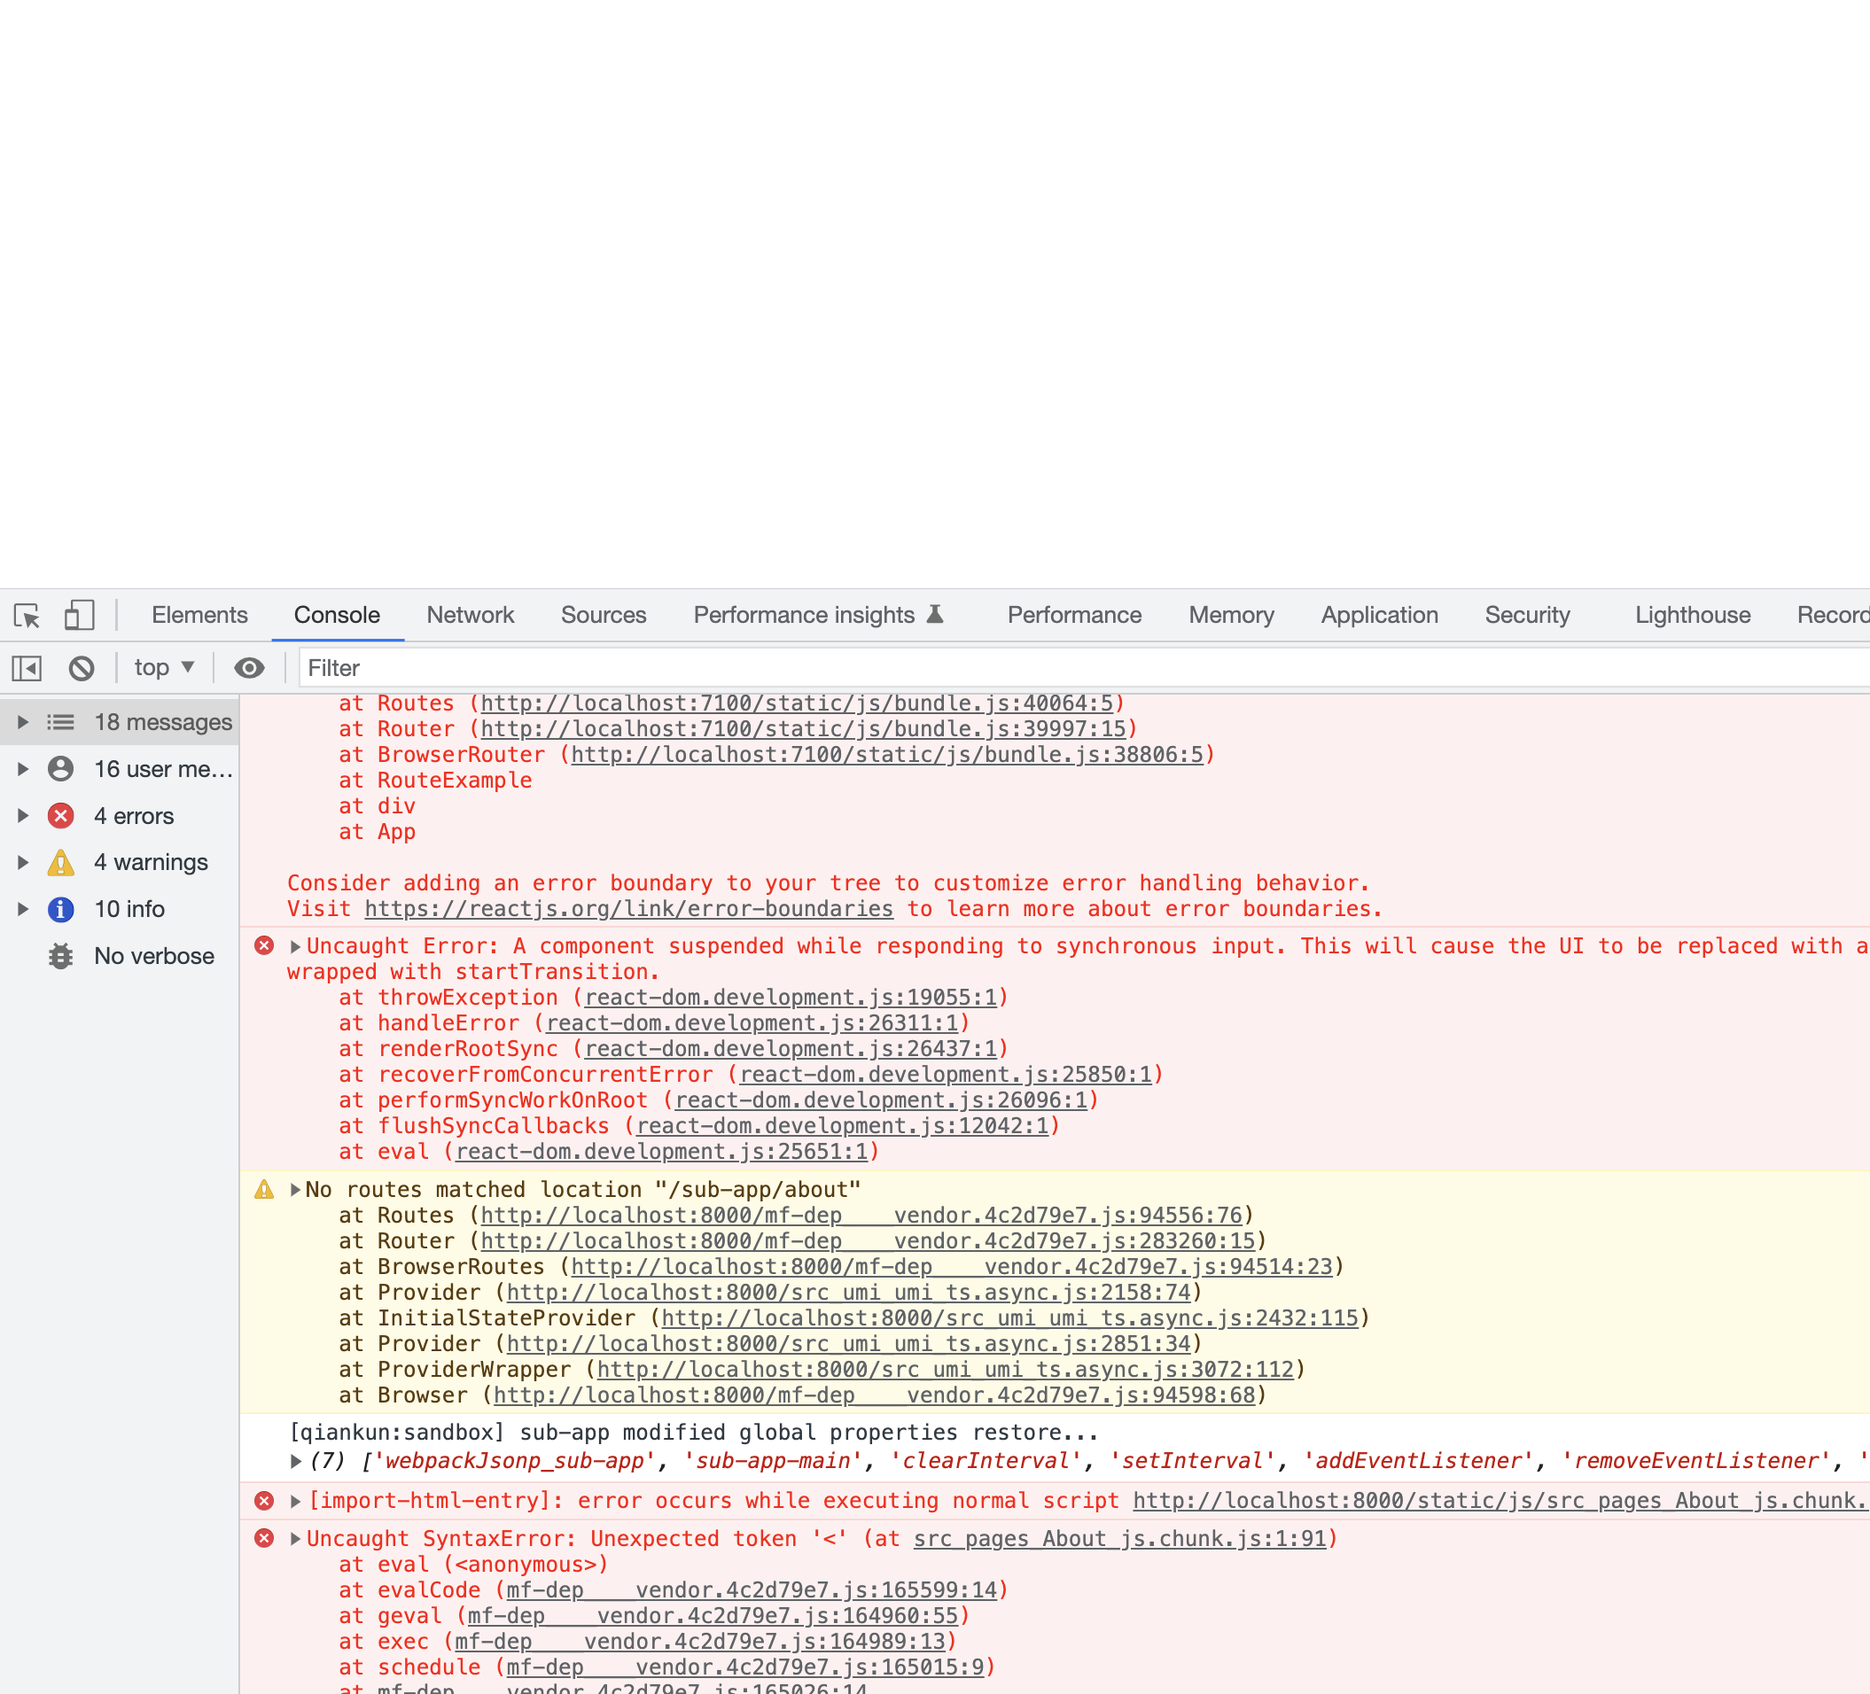
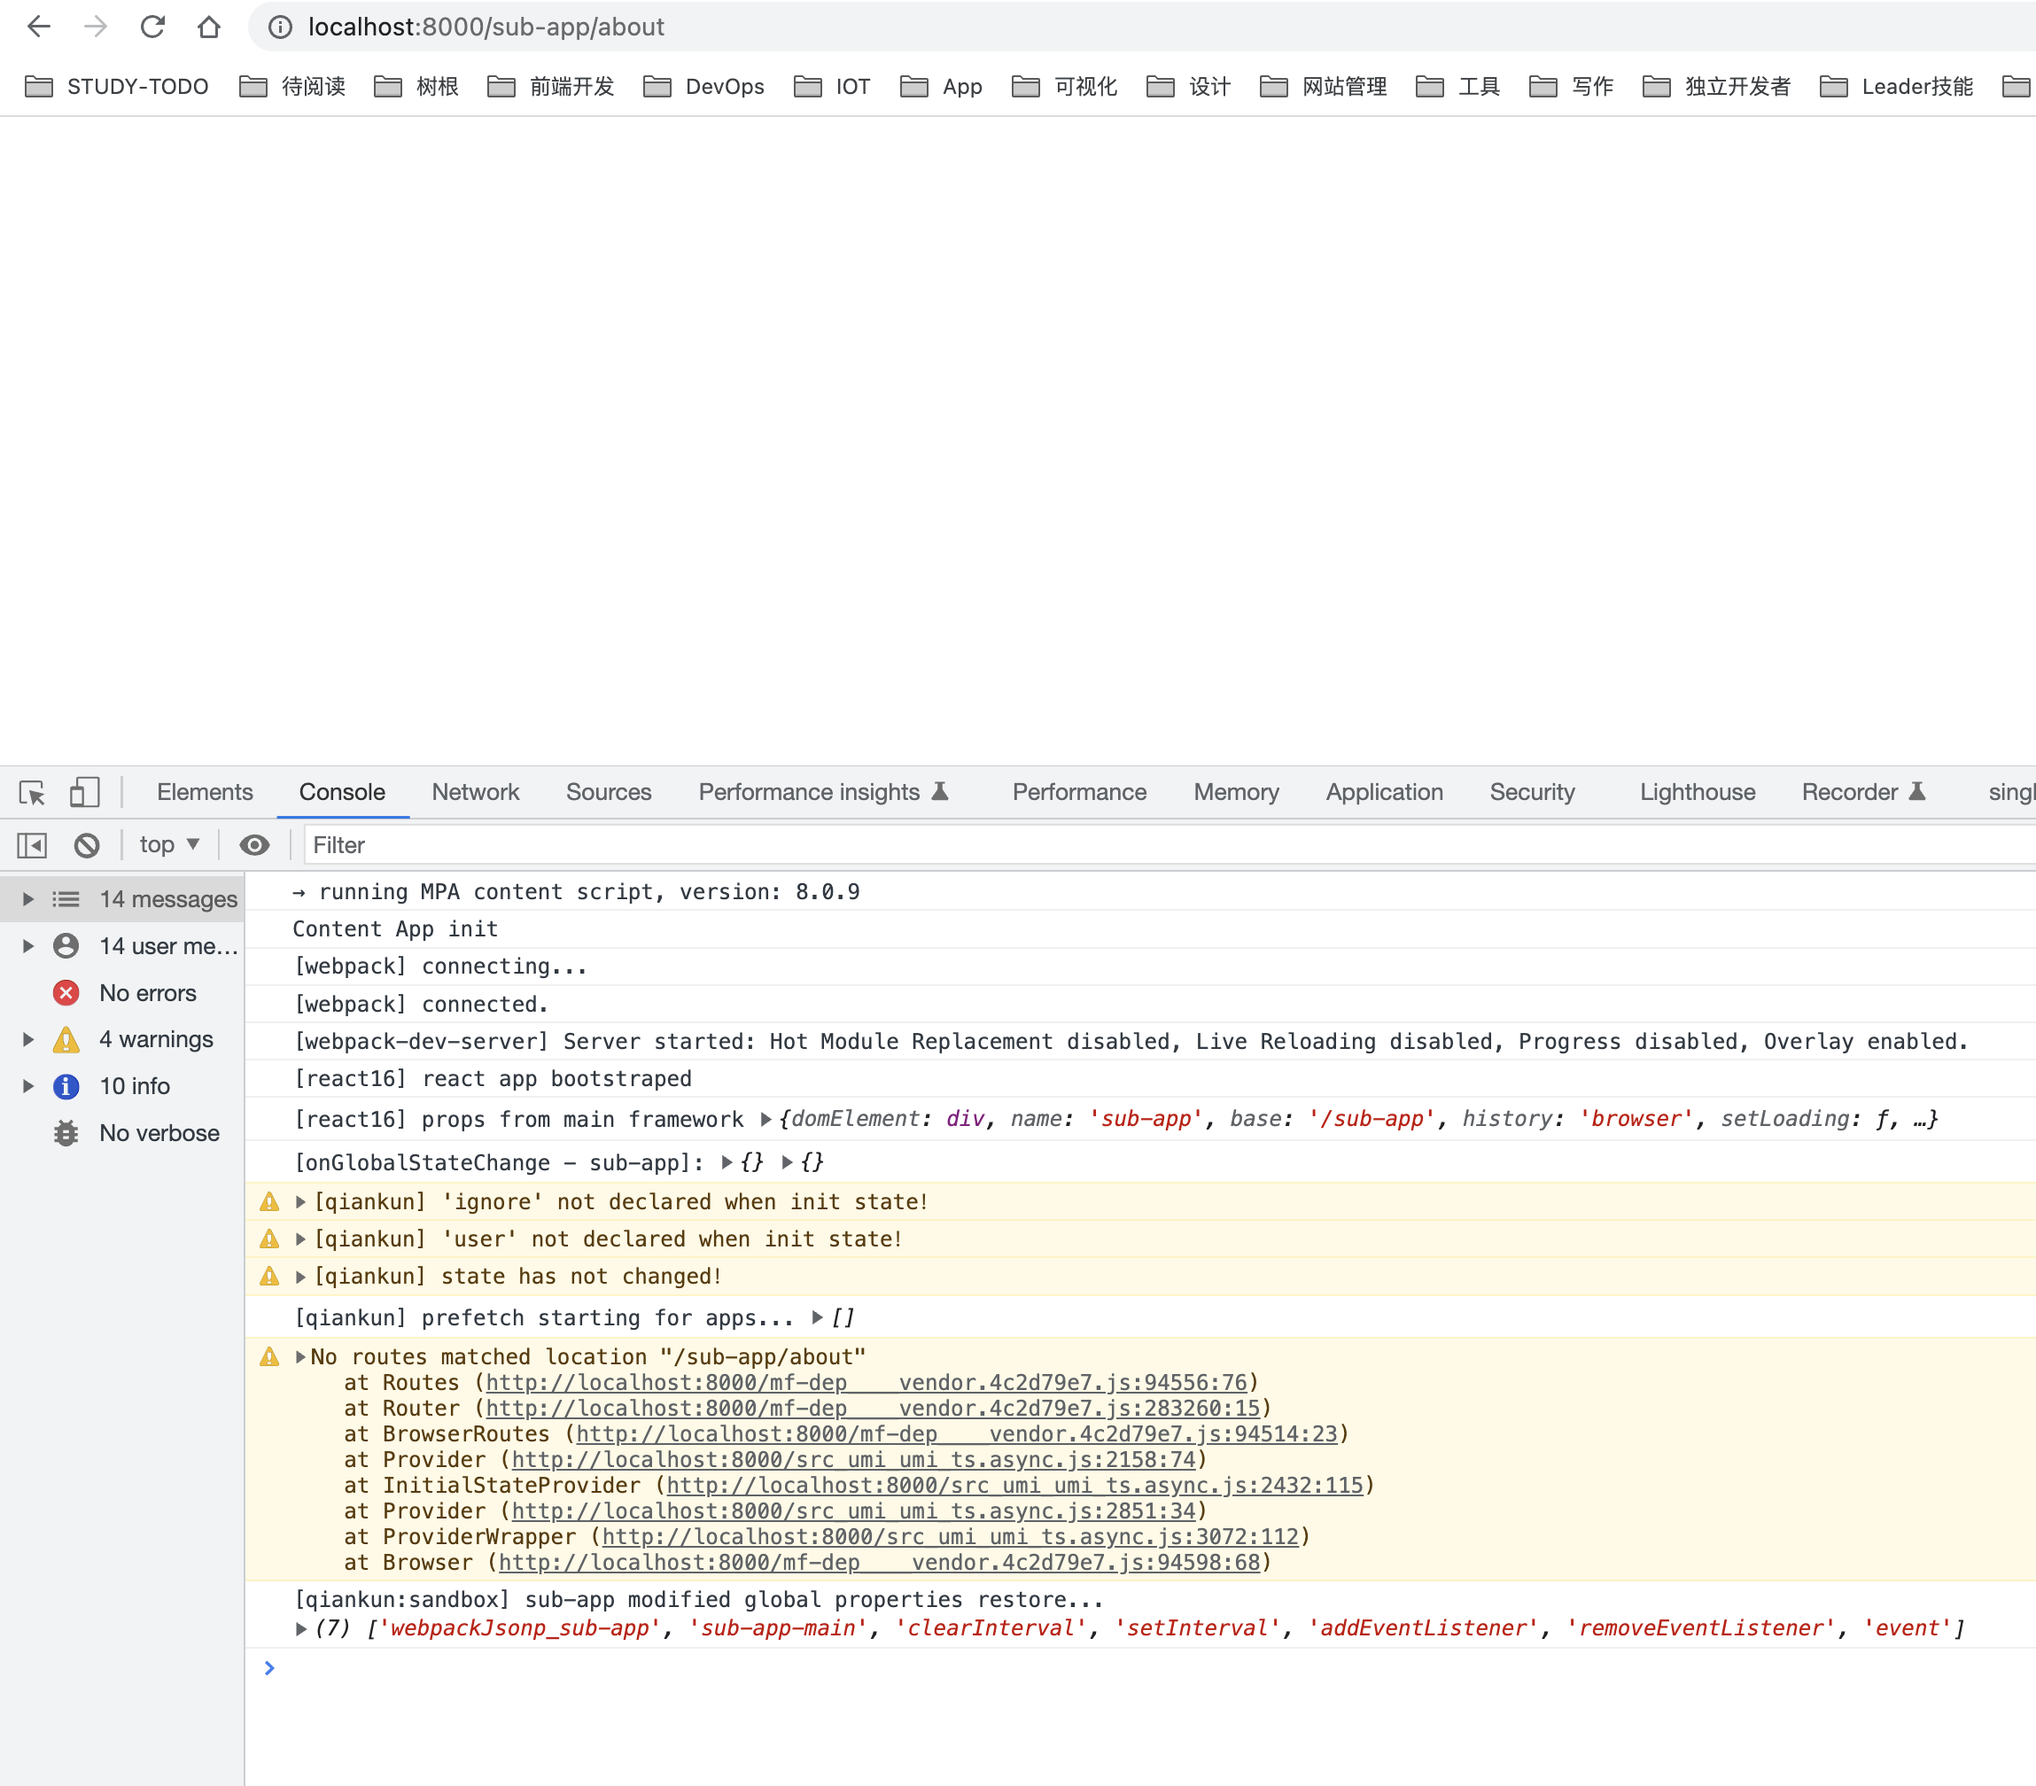
fix: suspense error

diff --git a/sub-app/src/App.js b/sub-app/src/App.js
@@ -1,4 +1,3 @@
-import { lazy } from 'react';
 import {
   BrowserRouter as Router,
   Link,
@@ -10,8 +9,9 @@ import {
 import 'antd/dist/antd.min.css';
 import './App.css';
 
+import About from './pages/About';
 import Home from './pages/Home';
-const About = lazy(() => import('./pages/About'));
+// const About = lazy(() => import('./pages/About'));
 
 const RouteExample = () => {
   return (

diff --git a/README.md b/README.md
@@ -46,7 +46,7 @@ export default defineConfig({
       apps: [
         {
           name: 'sub-app',
-          entry: '//localhost:7100',
+          entry: '//localhost:7100/sub-app',
         },
       ],
     },
